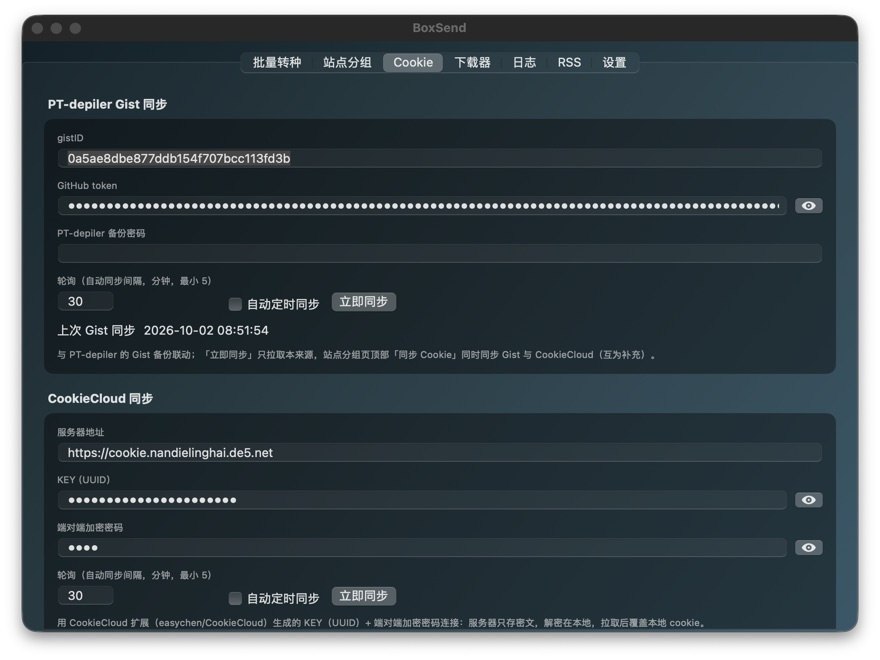
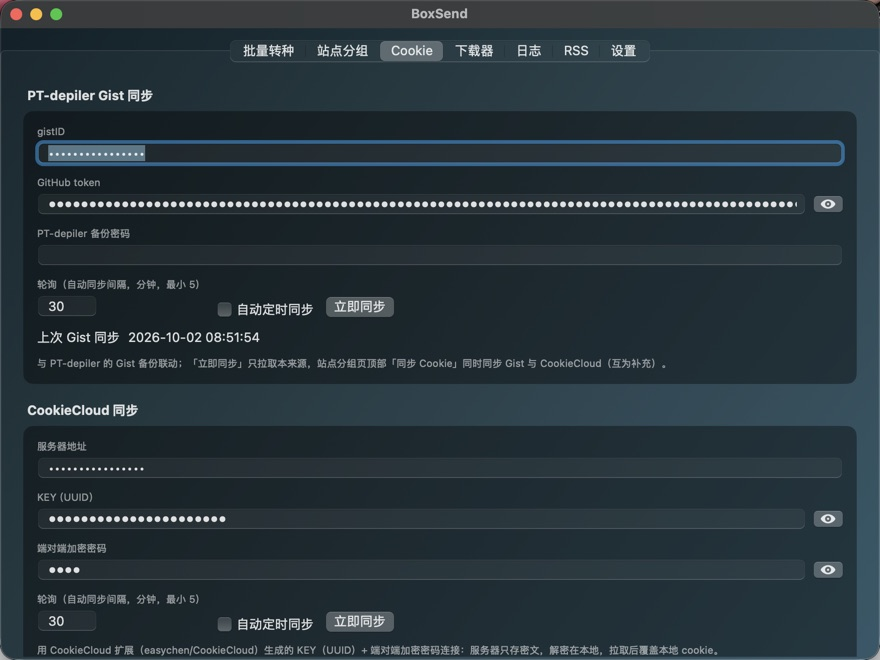
fix: 分组名输入框宽度随输入扩展，长名称不再只显示末尾（始终居中）；使用教程弹窗扩大至 800x640；教程配图全部打码（gistID、CookieCloud 服务器地址、下载器 URL/用户名改为星号占位，重新截图打包）

Changed region(s): [[0.0, 0.0, 1.0, 1.0]]

diff --git a/Sources/BoxSendApp/Views.swift b/Sources/BoxSendApp/Views.swift
@@ -409,7 +409,8 @@ struct SitesView: View {
                         TextField("", text: $newGroupName, prompt: Text("分组名"))
                             .textFieldStyle(.roundedBorder)
                             .multilineTextAlignment(.center)
-                            .frame(width: 150)
+                            // 固定宽度下长文本只显示末尾（看似偏右），宽度随输入扩展以保证始终居中
+                            .frame(width: CGFloat(max(150, min(360, newGroupName.count * 14 + 44))))
                         Text("上传限速").foregroundStyle(.secondary)
                         TextField("", text: $newGroupMB, prompt: Text("10"))
                             .textFieldStyle(.roundedBorder)
@@ -1448,7 +1449,7 @@ struct TutorialSheet: View {
             }
         }
         .padding()
-        .frame(width: 640, height: 540)
+        .frame(width: 800, height: 640)
         .boxsendAppearance()
     }
 
